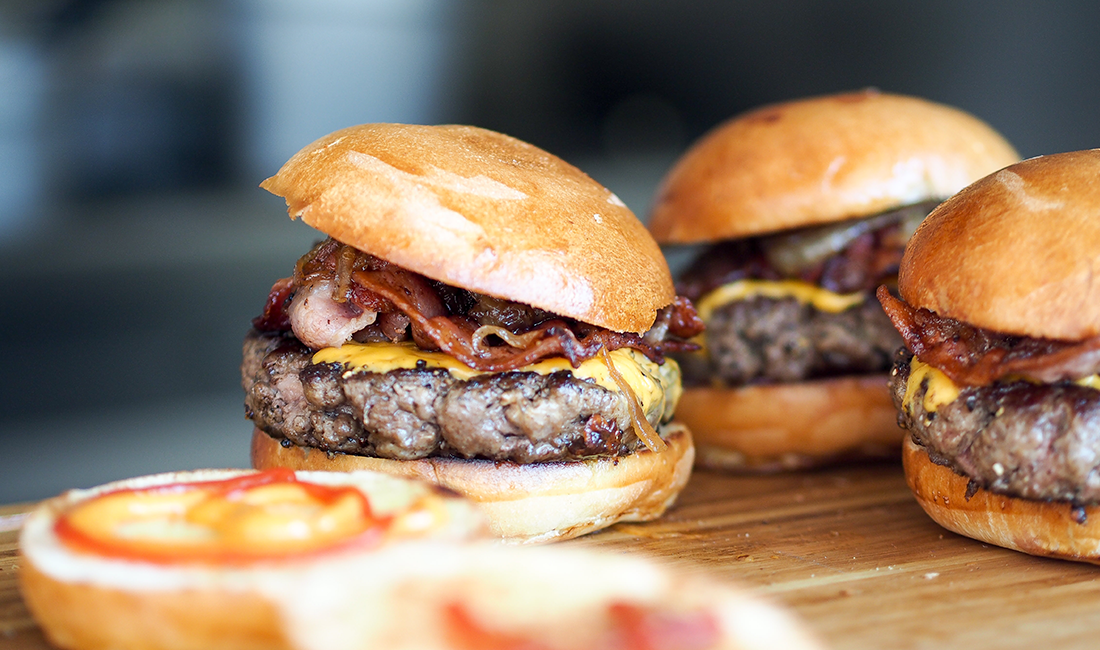
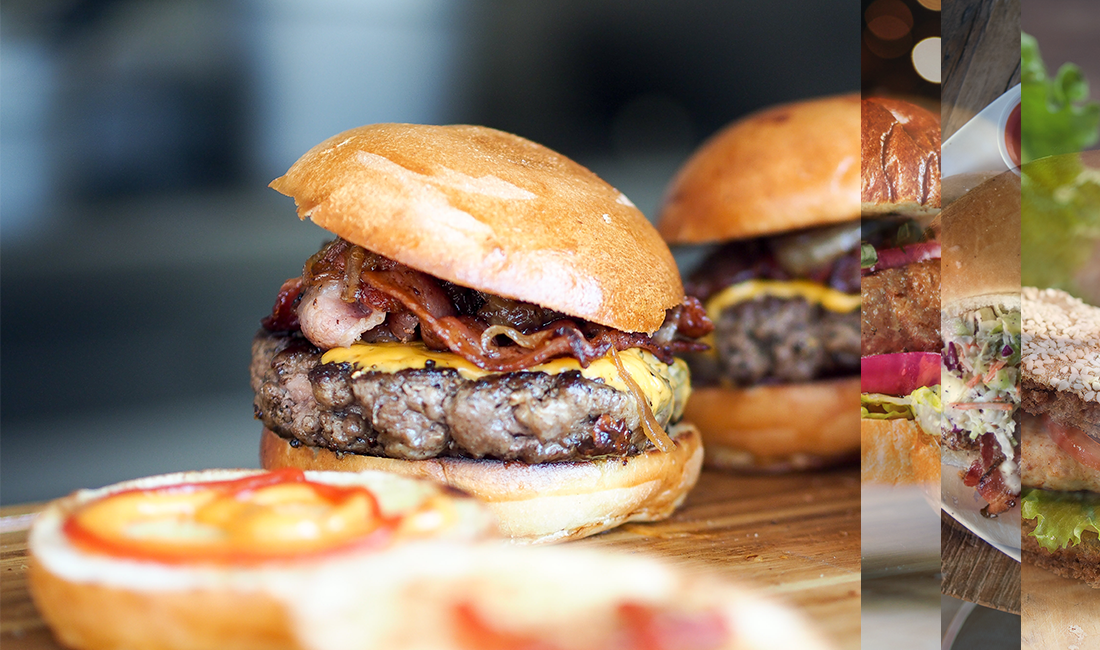
menu

diff --git a/css/main-dist.css b/css/main-dist.css
@@ -1,2 +1,2 @@
-.wrapper{width:100%;height:100%;position:relative;min-height:0}.maincontent{height:100%;min-height:650px}.container{width:940px;margin:0 auto;display:-webkit-box;display:-webkit-flex;display:-ms-flexbox;display:flex;-webkit-box-pack:center;-webkit-justify-content:center;-ms-flex-pack:center;justify-content:center;-webkit-box-align:center;-webkit-align-items:center;-ms-flex-align:center;align-items:center;-webkit-box-orient:vertical;-webkit-box-direction:normal;-webkit-flex-direction:column;-ms-flex-direction:column;flex-direction:column}.section{height:100%;background-color:rgba(0, 0, 0, 0.31);min-width:940px;min-height:650px}.order-link{min-width:6.125rem;padding:10px 17px;border-radius:5px;background-color:#e25028;color:#fff;text-decoration:none;font-size:13px;font-weight:500;line-height:1.42;text-transform:uppercase;-webkit-transition:.5s;-o-transition:.5s;transition:.5s}.order-link:hover{background-color:#cb411b}body{margin:0;padding:0;font-size:16px;font-family:'Ubuntu', Arial, Helvetica, sans-serif;line-height:1.42;color:#2f3234;-webkit-font-smoothing:antialiased;-moz-osx-font-smoothing:grayscale}*,:after,:before{-webkit-box-sizing:border-box;box-sizing:border-box}body,html{height:100%}ul{margin:0;padding:0;list-style:none}.visuallyhidden:not(:focus):not(:active){position:absolute;width:1px;height:1px;margin:-1px;border:0;padding:0;white-space:nowrap;-webkit-clip-path:inset(100%);clip-path:inset(100%);clip:rect(0 0 0 0);overflow:hidden}@font-face{font-family:'Ubuntu';src:url("../fonts/ubuntu/ubuntu-b-webfont.woff2") format("woff2");font-weight:900;font-style:normal}@font-face{font-family:'Ubuntu';src:url("../fonts/ubuntu/ubuntu-light-webfont.woff2") format("woff2");font-weight:300;font-style:normal}@font-face{font-family:'Ubuntu';src:url("../fonts/ubuntu/ubuntu-medium-webfont.woff2") format("woff2");font-weight:700;font-style:normal}@font-face{font-family:'Ubuntu';src:url("../fonts/ubuntu/ubuntu-regular-webfont.woff2") format("woff2");font-weight:500;font-style:normal}@font-face{font-family:'Gagalin';src:url("../fonts/gagalin-regular-webfont.woff2") format("woff2");font-weight:normal;font-style:normal}@font-face{font-family:'Lifehack';src:url("../fonts/lifehack_medium-webfont.woff2") format("woff2");font-weight:normal;font-style:normal}.hero{background-image:url("../img/bg/hero-bg.png");background-repeat:no-repeat;background-position:50%;background-size:cover;position:relative}.header{width:100%;display:-webkit-box;display:-webkit-flex;display:-ms-flexbox;display:flex;-webkit-box-pack:justify;-webkit-justify-content:space-between;-ms-flex-pack:justify;justify-content:space-between;-webkit-box-align:center;-webkit-align-items:center;-ms-flex-align:center;align-items:center;padding-top:10px}.header__logo{margin-right:auto}.nav{margin-right:0.9375rem}.nav__list{margin:0;padding:0}.nav__item{display:inline-block;vertical-align:middle;white-space:nowrap}.nav__item:after{display:inline-block;vertical-align:middle;content:' ';width:5px;height:5px;border-radius:2.5px;background-color:#fff;margin:0 12px}.nav__item:last-child:after{display:none}.nav__link{color:#ffffff;font-size:13px;font-weight:500;line-height:1.42;text-transform:uppercase;text-decoration:none;display:inline-block;vertical-align:middle;-webkit-transition:.5s;-o-transition:.5s;transition:.5s}.nav__link:hover{text-decoration:underline}.hero__container{height:100%;display:-webkit-box;display:-webkit-flex;display:-ms-flexbox;display:flex;-webkit-box-orient:vertical;-webkit-box-direction:normal;-webkit-flex-direction:column;-ms-flex-direction:column;flex-direction:column;-webkit-box-pack:center;-webkit-justify-content:center;-ms-flex-pack:center;justify-content:center;-webkit-box-align:center;-webkit-align-items:center;-ms-flex-align:center;align-items:center}.hero__content{width:100%;display:-webkit-box;display:-webkit-flex;display:-ms-flexbox;display:flex;-webkit-flex-wrap:wrap;-ms-flex-wrap:wrap;flex-wrap:wrap;-webkit-box-flex:1;-webkit-flex-grow:1;-ms-flex-positive:1;flex-grow:1;-webkit-box-align:center;-webkit-align-items:center;-ms-flex-align:center;align-items:center;padding-bottom:15%}.hero__description,.hero__img{-webkit-flex-basis:50%;-ms-flex-preferred-size:50%;flex-basis:50%;display:-webkit-box;display:-webkit-flex;display:-ms-flexbox;display:flex}.hero__description{-webkit-box-orient:vertical;-webkit-box-direction:normal;-webkit-flex-direction:column;-ms-flex-direction:column;flex-direction:column;-webkit-box-pack:center;-webkit-justify-content:center;-ms-flex-pack:center;justify-content:center}.section__title{color:#f9b43b;font-family:'Gagalin';font-size:72px;font-weight:400;line-height:1.42;margin:0;padding-top:60px}.hero__description-text{color:#ffffff;font-family:'Lifehack';font-size:65px;font-weight:500;line-height:1}.arrow-down{padding-bottom:40px}.best{background-image:url("../img/bg/best-bg.png");background-repeat:no-repeat;background-position:center bottom;background-size:cover;display:-webkit-box;display:-webkit-flex;display:-ms-flexbox;display:flex;-webkit-box-pack:center;-webkit-justify-content:center;-ms-flex-pack:center;justify-content:center;-webkit-box-align:center;-webkit-align-items:center;-ms-flex-align:center;align-items:center}.section__title--best{color:#2f3234;padding:0;margin-bottom:3.75rem;font-family:'Gagalin';padding-top:49px}.best__pictures_title{font-family:'Lifehack';font-size:24px;color:#2f3234}.best__pictures_text{font-family:'Ubuntu';font-size:14px;color:#2f3234;line-height:1.5}.best__list{display:-webkit-box;display:-webkit-flex;display:-ms-flexbox;display:flex;text-align:center;margin:20px}.best__icon-pic_natural{fill:#8ac03e;width:97px}.best__icon-pic_hand{fill:#f8b43a;width:80px}.best__icon-pic_meat{fill:#e25028;width:97px}.best__item{margin-right:20px;padding-bottom:100px}.best__item:last-child{margin-right:0}.persons{display:-webkit-box;display:-webkit-flex;display:-ms-flexbox;display:flex;-webkit-flex-wrap:wrap;-ms-flex-wrap:wrap;flex-wrap:wrap}.person-link{min-width:6.125rem;padding:10px 17px;border-radius:5px;background-color:#2f3234;color:#fff;text-decoration:none;font-size:13px;font-weight:500;line-height:1.42;text-transform:uppercase;-webkit-transition:.5s;-o-transition:.5s;transition:.5s}.person_title{font-family:'Gagalin';text-transform:uppercase;color:white}.person_text{font-family:'Ubuntu';font-size:14px;color:white}.person__description{position:absolute;-webkit-flex-basis:25%;-ms-flex-preferred-size:25%;flex-basis:25%}.person_1,person_2,person_3,person_4,person_5,person_6,person_7,person_8{position:relative}.darkburger{background-image:url("../img/bg/darkburger-bg.png");background-repeat:no-repeat;background-position:center bottom;background-size:cover;display:-webkit-box;display:-webkit-flex;display:-ms-flexbox;display:flex;-webkit-box-pack:center;-webkit-justify-content:center;-ms-flex-pack:center;justify-content:center;-webkit-box-align:center;-webkit-align-items:center;-ms-flex-align:center;align-items:center}.darkburger__price{font-family:'Gagalin';font-size:30px;color:#e35028}.darkburger__description{color:#ffffff}.section__title--darkburger{color:#ffffff;padding:0;margin-bottom:3.75rem;font-family:'Gagalin'}.darkburger__description{font-family:'Ubuntu';font-size:14px}.darkburger__content{display:-webkit-box;display:-webkit-flex;display:-ms-flexbox;display:flex}.order{background-image:url("../img/bg/order-bg.png");background-repeat:no-repeat;background-position:50%;background-size:cover;position:relative}.section__title--order{color:#f9b43b;padding:0;margin-bottom:3.75rem;font-family:'Gagalin';padding-top:91px}.form__input-title{color:white;font-size:14px}.form__controls-radio-elem{color:white;font-size:14px}.form__elem{padding-left:77px;display:-webkit-box;display:-webkit-flex;display:-ms-flexbox;display:flex}.team{background:url("../img/bg/team-bg.png") no-repeat;background-size:cover;position:relative}.team__container{position:absolute;top:0;bottom:0;right:0;width:50%;background:rgba(52, 54, 56, 0.93);padding-left:70px;display:-webkit-box;display:-webkit-flex;display:-ms-flexbox;display:flex;-webkit-box-orient:vertical;-webkit-box-direction:normal;-webkit-flex-direction:column;-ms-flex-direction:column;flex-direction:column;-webkit-box-pack:center;-webkit-justify-content:center;-ms-flex-pack:center;justify-content:center}.section__title--team{color:#f9b43b;padding:0;margin-bottom:3.75rem;font-family:'Gagalin'}.team-acco__triger{color:white;font-family:'Gagalin';padding-top:14px;text-decoration:none;display:-webkit-box;display:-webkit-flex;display:-ms-flexbox;display:flex;-webkit-box-align:center;-webkit-align-items:center;-ms-flex-align:center;align-items:center}.team-acco__triger:before{content:"";height:0;width:0;border:9px solid transparent;border-top-color:#f8b43a;border-bottom-width:0px}.team-acco__content{display:none}.team-acco__item_active .team-acco__triger{color:#e25028}.team-acco__text-content{color:white}.team-acco__text-title{color:white}.menu{background-image:url("../img/bg/menu-bg.png");background-repeat:no-repeat;background-position:50%;background-size:cover;position:relative}.section__title--menu{color:white;padding:0;margin-bottom:3.75rem;font-family:'Gagalin';padding-top:91px;padding-left:500px}.types_menu{color:white;padding:0;margin-bottom:3.75rem;font-family:'Gagalin';padding-top:91px;font-size:40px}.types_menu{-webkit-transform:rotate(-90deg);-ms-transform:rotate(-90deg);transform:rotate(-90deg);margin-left:800px}.contacts__phone{color:#e35028;font-style:bold;text-decoration:none}.container__footer{width:100%;background-image:url("../img/footer.png");background-repeat:no-repeat;background-position:center bottom;background-size:cover;display:-webkit-box;display:-webkit-flex;display:-ms-flexbox;display:flex;-webkit-box-pack:center;-webkit-justify-content:center;-ms-flex-pack:center;justify-content:center;-webkit-box-align:center;-webkit-align-items:center;-ms-flex-align:center;align-items:center}.footer_wrapper{padding-right:1100px}.footer__text{color:white}
+.wrapper{width:100%;height:100%;position:relative;min-height:0}.maincontent{height:100%;min-height:650px}.container{width:940px;margin:0 auto;display:-webkit-box;display:-webkit-flex;display:-ms-flexbox;display:flex;-webkit-box-pack:center;-webkit-justify-content:center;-ms-flex-pack:center;justify-content:center;-webkit-box-align:center;-webkit-align-items:center;-ms-flex-align:center;align-items:center;-webkit-box-orient:vertical;-webkit-box-direction:normal;-webkit-flex-direction:column;-ms-flex-direction:column;flex-direction:column}.section{height:100%;background-color:rgba(0, 0, 0, 0.31);min-width:940px;min-height:650px}.order-link{min-width:6.125rem;padding:10px 17px;border-radius:5px;background-color:#e25028;color:#fff;text-decoration:none;font-size:13px;font-weight:500;line-height:1.42;text-transform:uppercase;-webkit-transition:.5s;-o-transition:.5s;transition:.5s}.order-link:hover{background-color:#cb411b}body{margin:0;padding:0;font-size:16px;font-family:'Ubuntu', Arial, Helvetica, sans-serif;line-height:1.42;color:#2f3234;-webkit-font-smoothing:antialiased;-moz-osx-font-smoothing:grayscale}*,:after,:before{-webkit-box-sizing:border-box;box-sizing:border-box}body,html{height:100%}ul{margin:0;padding:0;list-style:none}.visuallyhidden:not(:focus):not(:active){position:absolute;width:1px;height:1px;margin:-1px;border:0;padding:0;white-space:nowrap;-webkit-clip-path:inset(100%);clip-path:inset(100%);clip:rect(0 0 0 0);overflow:hidden}@font-face{font-family:'Ubuntu';src:url("../fonts/ubuntu/ubuntu-b-webfont.woff2") format("woff2");font-weight:900;font-style:normal}@font-face{font-family:'Ubuntu';src:url("../fonts/ubuntu/ubuntu-light-webfont.woff2") format("woff2");font-weight:300;font-style:normal}@font-face{font-family:'Ubuntu';src:url("../fonts/ubuntu/ubuntu-medium-webfont.woff2") format("woff2");font-weight:700;font-style:normal}@font-face{font-family:'Ubuntu';src:url("../fonts/ubuntu/ubuntu-regular-webfont.woff2") format("woff2");font-weight:500;font-style:normal}@font-face{font-family:'Gagalin';src:url("../fonts/gagalin-regular-webfont.woff2") format("woff2");font-weight:normal;font-style:normal}@font-face{font-family:'Lifehack';src:url("../fonts/lifehack_medium-webfont.woff2") format("woff2");font-weight:normal;font-style:normal}.hero{background-image:url("../img/bg/hero-bg.png");background-repeat:no-repeat;background-position:50%;background-size:cover;position:relative}.header{width:100%;display:-webkit-box;display:-webkit-flex;display:-ms-flexbox;display:flex;-webkit-box-pack:justify;-webkit-justify-content:space-between;-ms-flex-pack:justify;justify-content:space-between;-webkit-box-align:center;-webkit-align-items:center;-ms-flex-align:center;align-items:center;padding-top:10px}.header__logo{margin-right:auto}.nav{margin-right:0.9375rem}.nav__list{margin:0;padding:0}.nav__item{display:inline-block;vertical-align:middle;white-space:nowrap}.nav__item:after{display:inline-block;vertical-align:middle;content:' ';width:5px;height:5px;border-radius:2.5px;background-color:#fff;margin:0 12px}.nav__item:last-child:after{display:none}.nav__link{color:#ffffff;font-size:13px;font-weight:500;line-height:1.42;text-transform:uppercase;text-decoration:none;display:inline-block;vertical-align:middle;-webkit-transition:.5s;-o-transition:.5s;transition:.5s}.nav__link:hover{text-decoration:underline}.hero__container{height:100%;display:-webkit-box;display:-webkit-flex;display:-ms-flexbox;display:flex;-webkit-box-orient:vertical;-webkit-box-direction:normal;-webkit-flex-direction:column;-ms-flex-direction:column;flex-direction:column;-webkit-box-pack:center;-webkit-justify-content:center;-ms-flex-pack:center;justify-content:center;-webkit-box-align:center;-webkit-align-items:center;-ms-flex-align:center;align-items:center}.hero__content{width:100%;display:-webkit-box;display:-webkit-flex;display:-ms-flexbox;display:flex;-webkit-flex-wrap:wrap;-ms-flex-wrap:wrap;flex-wrap:wrap;-webkit-box-flex:1;-webkit-flex-grow:1;-ms-flex-positive:1;flex-grow:1;-webkit-box-align:center;-webkit-align-items:center;-ms-flex-align:center;align-items:center;padding-bottom:15%}.hero__description,.hero__img{-webkit-flex-basis:50%;-ms-flex-preferred-size:50%;flex-basis:50%;display:-webkit-box;display:-webkit-flex;display:-ms-flexbox;display:flex}.hero__description{-webkit-box-orient:vertical;-webkit-box-direction:normal;-webkit-flex-direction:column;-ms-flex-direction:column;flex-direction:column;-webkit-box-pack:center;-webkit-justify-content:center;-ms-flex-pack:center;justify-content:center}.section__title{color:#f9b43b;font-family:'Gagalin';font-size:72px;font-weight:400;line-height:1.42;margin:0;padding-top:60px}.hero__description-text{color:#ffffff;font-family:'Lifehack';font-size:65px;font-weight:500;line-height:1}.arrow-down{padding-bottom:40px}.best{background-image:url("../img/bg/best-bg.png");background-repeat:no-repeat;background-position:center bottom;background-size:cover;display:-webkit-box;display:-webkit-flex;display:-ms-flexbox;display:flex;-webkit-box-pack:center;-webkit-justify-content:center;-ms-flex-pack:center;justify-content:center;-webkit-box-align:center;-webkit-align-items:center;-ms-flex-align:center;align-items:center}.section__title--best{color:#2f3234;padding:0;margin-bottom:3.75rem;font-family:'Gagalin';padding-top:49px}.best__pictures_title{font-family:'Lifehack';font-size:24px;color:#2f3234}.best__pictures_text{font-family:'Ubuntu';font-size:14px;color:#2f3234;line-height:1.5}.best__list{display:-webkit-box;display:-webkit-flex;display:-ms-flexbox;display:flex;text-align:center;margin:20px}.best__icon-pic_natural{fill:#8ac03e;width:97px}.best__icon-pic_hand{fill:#f8b43a;width:80px}.best__icon-pic_meat{fill:#e25028;width:97px}.best__item{margin-right:20px;padding-bottom:100px}.best__item:last-child{margin-right:0}.persons{display:-webkit-box;display:-webkit-flex;display:-ms-flexbox;display:flex;-webkit-flex-wrap:wrap;-ms-flex-wrap:wrap;flex-wrap:wrap}.person-link{min-width:6.125rem;padding:10px 17px;border-radius:5px;background-color:#2f3234;color:#fff;text-decoration:none;font-size:13px;font-weight:500;line-height:1.42;text-transform:uppercase;-webkit-transition:.5s;-o-transition:.5s;transition:.5s}.person_title{font-family:'Gagalin';text-transform:uppercase;color:white}.person_text{font-family:'Ubuntu';font-size:14px;color:white}.person__description{position:absolute;-webkit-flex-basis:25%;-ms-flex-preferred-size:25%;flex-basis:25%}.person_1,person_2,person_3,person_4,person_5,person_6,person_7,person_8{position:relative}.darkburger{background-image:url("../img/bg/darkburger-bg.png");background-repeat:no-repeat;background-position:center bottom;background-size:cover;display:-webkit-box;display:-webkit-flex;display:-ms-flexbox;display:flex;-webkit-box-pack:center;-webkit-justify-content:center;-ms-flex-pack:center;justify-content:center;-webkit-box-align:center;-webkit-align-items:center;-ms-flex-align:center;align-items:center}.darkburger__price{font-family:'Gagalin';font-size:30px;color:#e35028}.darkburger__description{color:#ffffff}.section__title--darkburger{color:#ffffff;padding:0;margin-bottom:3.75rem;font-family:'Gagalin'}.darkburger__description{font-family:'Ubuntu';font-size:14px}.darkburger__content{display:-webkit-box;display:-webkit-flex;display:-ms-flexbox;display:flex}.order{background-image:url("../img/bg/order-bg.png");background-repeat:no-repeat;background-position:50%;background-size:cover;position:relative}.section__title--order{color:#f9b43b;padding:0;margin-bottom:3.75rem;font-family:'Gagalin';padding-top:91px}.form__input-title{color:white;font-size:14px}.form__controls-radio-elem{color:white;font-size:14px}.form__elem{padding-left:77px;display:-webkit-box;display:-webkit-flex;display:-ms-flexbox;display:flex}.team{background:url("../img/bg/team-bg.png") no-repeat;background-size:cover;position:relative}.team__container{position:absolute;top:0;bottom:0;right:0;width:50%;background:rgba(52, 54, 56, 0.93);padding-left:70px;display:-webkit-box;display:-webkit-flex;display:-ms-flexbox;display:flex;-webkit-box-orient:vertical;-webkit-box-direction:normal;-webkit-flex-direction:column;-ms-flex-direction:column;flex-direction:column;padding-top:50px}.section__title--team{color:#f9b43b;padding:0;margin-bottom:3.75rem;font-family:'Gagalin'}.team-acco__triger{color:white;font-family:'Gagalin';padding-top:14px;text-decoration:none;display:-webkit-box;display:-webkit-flex;display:-ms-flexbox;display:flex;-webkit-box-align:center;-webkit-align-items:center;-ms-flex-align:center;align-items:center}.team-acco__triger:before{content:"";height:0;width:0;border:9px solid transparent;border-top-color:#f8b43a;border-bottom-width:0px}.team-acco__content{display:none}.team-acco__item_active .team-acco__triger{color:#e25028}.team-acco__item_active .team-acco__triger:before{-webkit-transform:rotate(-180deg);-ms-transform:rotate(-180deg);transform:rotate(-180deg)}.team-acco__item_active .team-acco__content{display:block}.team-acco__text-content{color:white}.team-acco__text-title{color:white}.menu{background-image:url("../img/bg/menu-bg.png");background-repeat:no-repeat;background-position:50%;background-size:cover;position:relative}.menu__container{position:absolute;top:0;bottom:0;right:0;width:21.7%;background:rgba(52, 54, 56, 0.75);display:-webkit-box;display:-webkit-flex;display:-ms-flexbox;display:flex;-webkit-box-orient:vertical;-webkit-box-direction:normal;-webkit-flex-direction:column;-ms-flex-direction:column;flex-direction:column}.section__title--menu{color:white;padding:0;margin-bottom:3.75rem;font-family:'Gagalin';padding-top:91px;text-align:center}.types_menu{color:white;padding:0;margin-bottom:3.75rem;font-family:'Gagalin';padding-top:91px;font-size:40px}.types_menu{-webkit-transform:rotate(-90deg);-ms-transform:rotate(-90deg);transform:rotate(-90deg)}.contacts__phone{color:#e35028;font-style:bold;text-decoration:none}.container__footer{width:100%;background-image:url("../img/footer.png");background-repeat:no-repeat;background-position:center bottom;background-size:cover;display:-webkit-box;display:-webkit-flex;display:-ms-flexbox;display:flex;-webkit-box-pack:center;-webkit-justify-content:center;-ms-flex-pack:center;justify-content:center;-webkit-box-align:center;-webkit-align-items:center;-ms-flex-align:center;align-items:center}.footer_wrapper{padding-right:1100px}.footer__text{color:white}
 /*# sourceMappingURL=main-dist.css.map */

diff --git a/css/main.css b/css/main.css
@@ -463,10 +463,7 @@ ul {
   -webkit-flex-direction: column;
   -ms-flex-direction: column;
   flex-direction: column;
-  -webkit-box-pack: center;
-  -webkit-justify-content: center;
-  -ms-flex-pack: center;
-  justify-content: center; }
+  padding-top: 50px; }
 
 .section__title--team {
   color: #f9b43b;
@@ -500,6 +497,13 @@ ul {
 
 .team-acco__item_active .team-acco__triger {
   color: #e25028; }
+  .team-acco__item_active .team-acco__triger:before {
+    -webkit-transform: rotate(-180deg);
+    -ms-transform: rotate(-180deg);
+    transform: rotate(-180deg); }
+
+.team-acco__item_active .team-acco__content {
+  display: block; }
 
 .team-acco__text-content {
   color: white; }
@@ -514,13 +518,30 @@ ul {
   background-size: cover;
   position: relative; }
 
+.menu__container {
+  position: absolute;
+  top: 0;
+  bottom: 0;
+  right: 0;
+  width: 21.7%;
+  background: rgba(52, 54, 56, 0.75);
+  display: -webkit-box;
+  display: -webkit-flex;
+  display: -ms-flexbox;
+  display: flex;
+  -webkit-box-orient: vertical;
+  -webkit-box-direction: normal;
+  -webkit-flex-direction: column;
+  -ms-flex-direction: column;
+  flex-direction: column; }
+
 .section__title--menu {
   color: white;
   padding: 0;
   margin-bottom: 3.75rem;
   font-family: 'Gagalin';
   padding-top: 91px;
-  padding-left: 500px; }
+  text-align: center; }
 
 .types_menu {
   color: white;
@@ -533,8 +554,7 @@ ul {
 .types_menu {
   -webkit-transform: rotate(-90deg);
   -ms-transform: rotate(-90deg);
-  transform: rotate(-90deg);
-  margin-left: 800px; }
+  transform: rotate(-90deg); }
 
 .contacts__phone {
   color: #e35028;

diff --git a/index.html b/index.html
@@ -168,9 +168,10 @@
               </ul>   
         </section>
         <section class="section menu"> 
-           <div class="container menu__container">
-              <div class="team__menu">
-                <h2 class="section__title section__title--menu">Меню</h2>
+          <h2 class="section__title section__title--menu">Меню</h2>
+           <div class="menu__container">
+              <div class="menu__content">
+                 
                 <ul class="types_menu">
                   <li>Для мясоедов</li>
                   <li>Вегетарианское</li>

diff --git a/scss/section/_menu.scss b/scss/section/_menu.scss
@@ -6,15 +6,28 @@
   position: relative;
 }
 
+
+.menu__container{
+position:absolute;
+top:0;
+bottom:0;
+right:0;
+width:21.7%;
+background: rgba(#343638, .75);
+display: flex;
+flex-direction: column;
+}
+
+
 .section__title--menu {
   color: white;
   padding: 0;
   margin-bottom: rem(60px);
   font-family: 'Gagalin';
   padding-top: 91px;
-  padding-left: 500px;
-
+  text-align:center;
 }
+
 
 .types_menu {
   color: white;
@@ -27,5 +40,5 @@
 
 .types_menu {
   transform: rotate(-90deg);
-  margin-left: 800px;
+  
 }

diff --git a/scss/section/_team.scss b/scss/section/_team.scss
@@ -14,7 +14,7 @@ background: rgba(#343638, .93);
 padding-left: 70px;
 display: flex;
 flex-direction: column;
-justify-content: center;
+padding-top: 50px;
 }
 
 
@@ -53,10 +53,11 @@ justify-content: center;
   .team-acco__triger {
     color:#e25028;
   
-    &before: {
+    &:before {
       transform: rotate(-180deg);
     }
   }
+
   .team-acco__content {
     display:block;
   }
